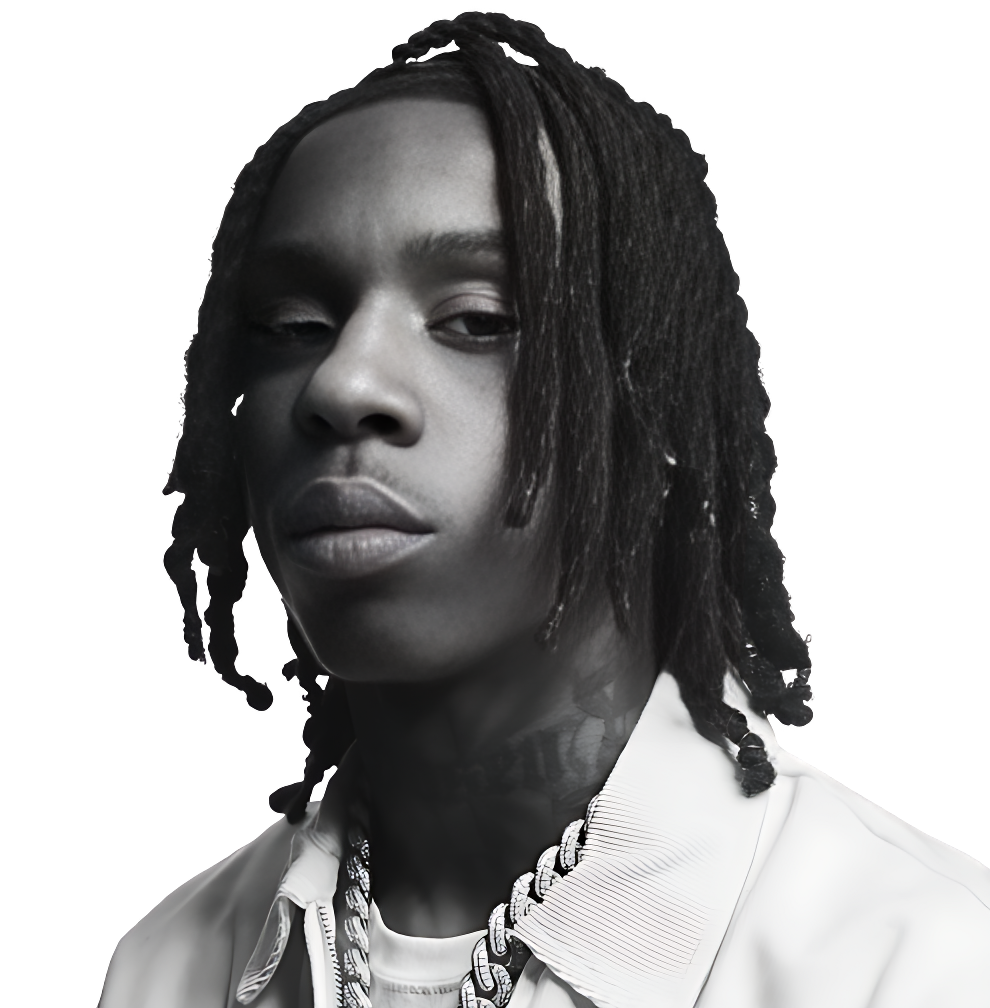
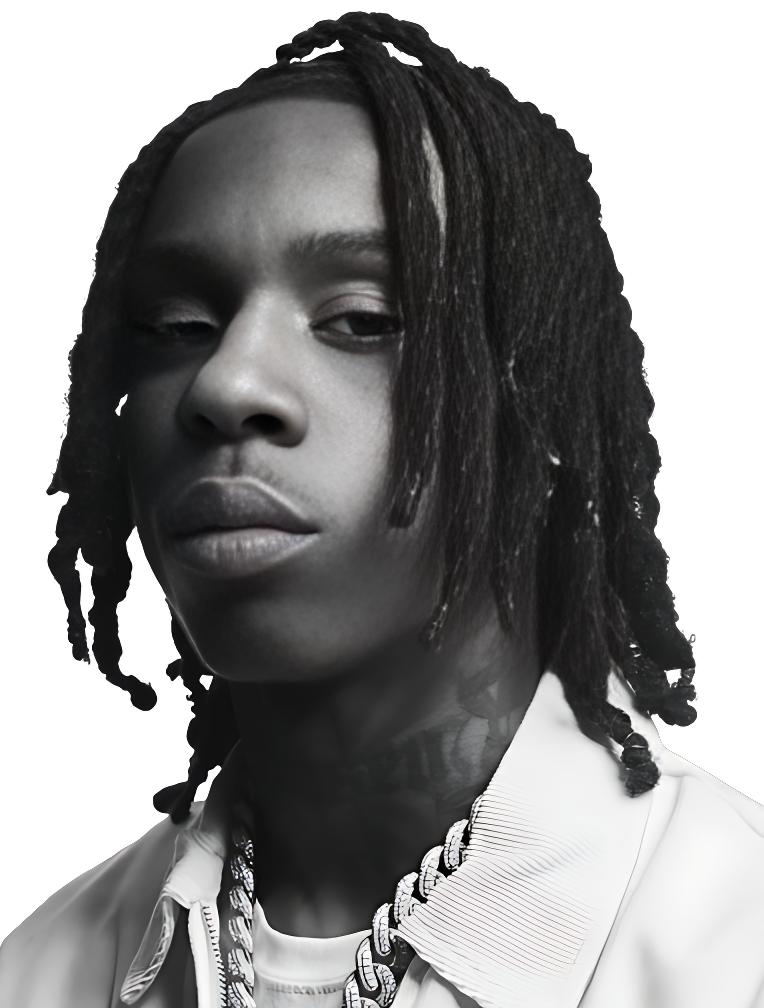
assets added and home screen created

diff --git a/screen/home.js b/screen/home.js
@@ -1,0 +1,144 @@
+import React, {useRef} from 'react';
+import {View, Animated, StyleSheet, Text} from 'react-native';
+import Ionicons from 'react-native-vector-icons/Ionicons';
+
+export default function Home() {
+  const scroll = useRef(new Animated.Value(0)).current;
+  return (
+    <Animated.ScrollView
+      onScroll={Animated.event([{nativeEvent: {contentOffset: {y: scroll}}}], {
+        useNativeDriver: true,
+      })}
+      scrollEventThrottle={16}>
+      <View style={styles.bannerContainer}>
+        <Animated.Image
+          style={styles.banner(scroll)}
+          source={require('../assets/polo-g-hero.png')}
+        />
+        <View style={styles.heroSection}>
+          <Text style={styles.headerText}>Polo G</Text>
+          <View style={styles.actionButtons}>
+            <Ionicons
+              name="ios-shuffle"
+              size={28}
+              color="#000"
+              style={styles.icon}
+            />
+            <Ionicons
+              name="play"
+              size={28}
+              color="#fff"
+              style={{...styles.icon, backgroundColor: '#109fd9'}}
+            />
+          </View>
+        </View>
+      </View>
+      <Text>
+        Lorem ipsum dolor sit, amet consectetur adipisicing elit. Iste facilis,
+        dignissimos quos enim quis ea, ut quibusdam odit alias modi qui ducimus
+        explicabo adipisci nihil soluta veritatis cumque nemo, ad quidem neque.
+        Recusandae, repudiandae nemo. Harum, accusamus consectetur quia corrupti
+        nihil ipsam tenetur nisi doloribus, rem placeat sequi. Ad dignissimos
+        tempore impedit iusto sit quia saepe tempora dicta soluta, pariatur,
+        illum accusantium ea itaque! Placeat necessitatibus eius dolorem
+        molestiae eveniet minus accusantium a illum, expedita omnis excepturi
+        ipsa nesciunt. Quasi eius, corporis cupiditate cumque provident ipsum
+        iste, consectetur commodi tempore quisquam esse aspernatur tenetur
+        deserunt nulla suscipit? Dolore neque facilis ullam quasi animi.
+        Assumenda quod, error libero iste nihil quasi quis minus tempore ut non
+        temporibus expedita, accusamus officia quo obcaecati voluptas ea!
+        Ratione autem veniam neque illo doloribus magni quo. Libero voluptate
+        quasi excepturi beatae nesciunt dolorum provident id atque ea officia
+        illo, enim ipsum modi architecto necessitatibus officiis. Cumque ab
+        quasi laborum minima facere quae saepe eveniet explicabo, cupiditate
+        molestiae blanditiis natus quos molestias repudiandae fugiat ullam nobis
+        dignissimos delectus ducimus ipsum officia debitis. Quae molestiae
+        voluptate incidunt mollitia corrupti, delectus ipsum quisquam.
+        Repellendus, sunt harum magni debitis voluptas voluptates nesciunt
+        accusantium aut facilis, qui distinctio illum nemo natus delectus
+        mollitia recusandae! Non odit veritatis quod. Officiis fuga officia
+        alias facilis! Similique temporibus voluptatum molestiae hic.
+        Reprehenderit perspiciatis totam molestiae fuga ratione eligendi iste at
+        nesciunt quasi beatae dolore rem magnam magni, hic vel doloremque esse
+        alias pariatur odit! Tempora expedita sit nobis molestias voluptates ad
+        dolorum eos! Deserunt repellat, dolore incidunt vitae molestias, omnis
+        natus accusamus mollitia minima illum provident ratione eligendi, ea
+        fugiat facere laborum quasi? Eligendi nulla unde temporibus perspiciatis
+        ab. Error non voluptatum nemo fugit commodi ipsa ad deleniti mollitia,
+        odit quam corrupti accusantium iste facere. Unde, eum! Dolorem, facere
+        fugit! Quos ipsum unde consectetur quae? Placeat atque minima ratione
+        ipsa, nulla expedita, amet quo unde corrupti voluptatem officiis quam
+        voluptas et, maxime delectus molestias? Tempora repellat, dolores
+        possimus ipsam hic inventore numquam ea facere tempore cum! Iure, nisi.
+        Beatae ex aliquid nostrum aspernatur earum repellendus molestias natus
+        minus, ea cumque praesentium tempora fugit qui soluta dolore facere
+        deleniti nesciunt deserunt porro voluptatem voluptates aliquam, ut
+        doloremque. Illum blanditiis non molestiae laudantium, dolor autem
+        excepturi aperiam et nisi? Earum maxime eum harum alias? Nobis quisquam
+        corporis illum itaque odio ullam alias labore adipisci id nesciunt
+        incidunt nisi, quia hic laudantium veniam? Labore deserunt error neque
+        eius fugit autem sapiente dignissimos officiis vitae, inventore
+        veritatis earum voluptatibus praesentium, iusto illo a! Iure nisi enim
+        obcaecati voluptatem officiis molestias corrupti odio ipsam quos illo,
+        hic recusandae aspernatur velit eius atque repellat perferendis officia
+        animi quas aliquam tempore saepe inventore nostrum. Libero aut fugiat
+        tempore perspiciatis quaerat magni illo voluptates minus dolorem quas
+        eius molestias, quo architecto expedita! Vel ipsam officiis perferendis
+        distinctio, fuga possimus ducimus harum! Expedita culpa amet praesentium
+        consequuntur architecto odio aliquam nisi. Nam, quibusdam voluptatum
+        neque sequi voluptas, mollitia delectus, deserunt eos expedita
+        asperiores ipsum qui dolor quos voluptatibus illum. Dicta, odit quam.
+      </Text>
+    </Animated.ScrollView>
+  );
+}
+
+const styles = StyleSheet.create({
+  banner: scroll => ({
+    height: 510,
+    width: '100%',
+    transform: [
+      {
+        translateY: scroll.interpolate({
+          inputRange: [-510, 0, 510, 510 + 1],
+          outputRange: [-510 / 2, 0, 510 * 0.75, 510 * 0.75],
+        }),
+      },
+      {
+        scale: scroll.interpolate({
+          inputRange: [-510, 0, 510],
+          outputRange: [1, 1, 1.2],
+        }),
+      },
+    ],
+    opacity: scroll.interpolate({
+      inputRange: [0, 510],
+      outputRange: [1, 0.7],
+    }),
+  }),
+  heroSection: {
+    flexDirection: 'row',
+    alignItems: 'center',
+    justifyContent: 'space-between',
+    backgroundColor: '#ffffff',
+    marginTop: -75,
+    padding: 15,
+  },
+  headerText: {
+    fontSize: 35,
+    color: '#000',
+    fontWeight: '700',
+  },
+  actionButtons: {
+    flexDirection: 'row',
+    borderColor: '#109fd9',
+    borderWidth: 2,
+    borderStyle: 'solid',
+    borderRadius: 50,
+    overflow: 'hidden',
+  },
+  icon: {
+    paddingVertical: 10,
+    paddingHorizontal: 20,
+  },
+});

diff --git a/App.jsx b/App.jsx
@@ -4,6 +4,7 @@ import CustomTab from './navigators/customTab';
 import React from 'react';
 import {SafeAreaView} from 'react-native';
 import Photo from './screen/photo';
+import Home from './screen/home';
 
 const Tab = createBottomTabNavigator();
 function App() {
@@ -11,6 +12,7 @@ function App() {
   return (
     <NavigationContainer>
       <Tab.Navigator screenOptions={{headerShown: false}} tabBar={customTab}>
+        <Tab.Screen name="home" component={Home} />
         <Tab.Screen name="photos" component={Photo} />
       </Tab.Navigator>
     </NavigationContainer>

diff --git a/components/navbar.jsx b/components/navbar.jsx
@@ -1,0 +1,17 @@
+import React from 'react';
+import {View, StyleSheet} from 'react-native';
+import Ionicons from 'react-native-vector-icons/Ionicons';
+import SimpleLineIcons from 'react-native-vector-icons/SimpleLineIcons';
+import Entypo from 'react-native-vector-icons/Entypo';
+
+export default function Navbar() {
+  return (
+    <View>
+      <Ionicons name="ios-search-outline" />
+      <View>
+        <SimpleLineIcons name="bell" />
+        <Entypo name="dots-three-horizontal" />
+      </View>
+    </View>
+  );
+}
